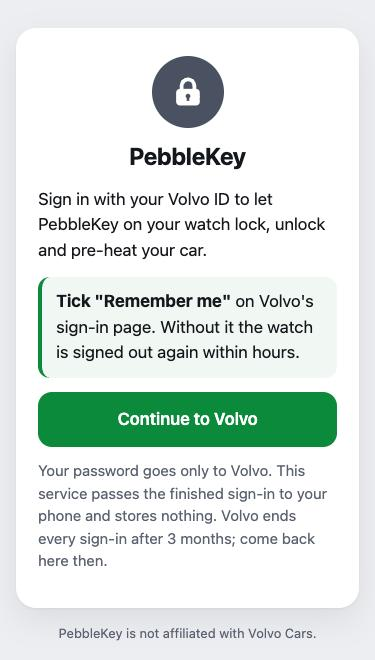
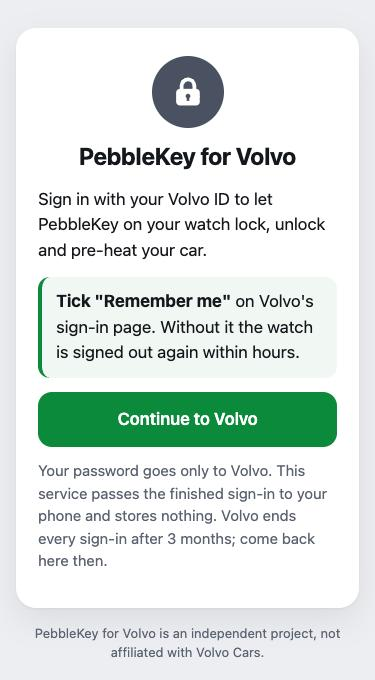
Call the project "PebbleKey for Volvo"
The full name is used in titles, on the sign-in pages and in the
settings page, so that Volvo owners can find it and can see it is a
third-party app. The watch's app menu keeps the short "PebbleKey",
which is what fits there.

diff --git a/broker/src/worker.js b/broker/src/worker.js
@@ -1,4 +1,4 @@
-// PebbleKey sign-in service (Cloudflare Worker).
+// PebbleKey for Volvo sign-in service (Cloudflare Worker).
 //
 // Lets people use PebbleKey without their own Volvo developer account: one Volvo API
 // application belongs to whoever runs this service, and every user signs in to it with their
@@ -175,7 +175,7 @@ function page(status, title, body, script, tone) {
 <h1>${escapeHtml(title)}</h1>
 ${body}
 </main>
-<footer>PebbleKey is not affiliated with Volvo Cars.</footer>${script ? `<script nonce="${nonce}">${script}</script>` : ''}</body>
+<footer>PebbleKey for Volvo is an independent project, not affiliated with Volvo Cars.</footer>${script ? `<script nonce="${nonce}">${script}</script>` : ''}</body>
 </html>`;
   return new Response(html, {
     status,
@@ -211,7 +211,7 @@ function json(status, data) {
 }
 
 function landing() {
-  return page(200, 'PebbleKey', `
+  return page(200, 'PebbleKey for Volvo', `
 <p>Sign in with your Volvo ID to let PebbleKey on your watch lock, unlock and pre-heat your car.</p>
 <p class="tip"><strong>Tick "Remember me"</strong> on Volvo's sign-in page. Without it the watch
 is signed out again within hours.</p>

diff --git a/tools/volvo_login.py b/tools/volvo_login.py
@@ -1,5 +1,5 @@
 #!/usr/bin/env python3
-"""One-time Volvo ID login for the PebbleKey Pebble app.
+"""One-time Volvo ID login for the PebbleKey for Volvo Pebble app.
 
 Runs the OAuth authorisation-code flow (with PKCE) in your browser and prints a
 setup code to paste into the watchapp's settings page in the Pebble phone app.

diff --git a/docs/SETUP.md b/docs/SETUP.md
@@ -1,4 +1,4 @@
-# Setting up PebbleKey, step by step
+# Setting up PebbleKey for Volvo, step by step
 
 This guide takes you from nothing to locking your car from your wrist. It takes about five
 minutes and needs only your phone and your watch.
@@ -25,7 +25,7 @@ The Pebble app asks you to allow two things for PebbleKey:
 
 ## 2. Open PebbleKey on the watch
 
-Find PebbleKey in the watch's app menu and open it. Until it is set up, the badge is grey.
+Find PebbleKey in the watch's app menu (the name is shortened there) and open it. Until it is set up, the badge is grey.
 
 <img src="setup-watch-start.png" alt="PebbleKey on the watch before setup: a grey padlock badge" width="200">
 

diff --git a/README.md b/README.md
@@ -1,4 +1,4 @@
-# PebbleKey
+# PebbleKey for Volvo
 
 Lock, unlock and pre-heat a Volvo from a Pebble watch.
 
@@ -19,7 +19,7 @@ unlock without a second hold.*
 
 *Pebble Round 2, and a black-and-white Pebble 2.*
 
-PebbleKey is a Pebble watchapp that talks to Volvo's
+PebbleKey for Volvo (PebbleKey for short) is a Pebble watchapp that talks to Volvo's
 [Connected Vehicle API](https://developer.volvocars.com/apis/connected-vehicle/v2/overview/).
 There is no extra phone app: the phone half is JavaScript that runs inside the official Pebble
 app, and it sends commands straight to Volvo.
